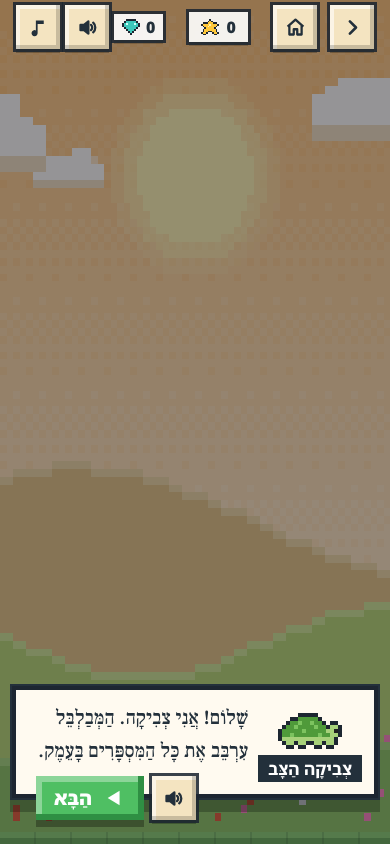
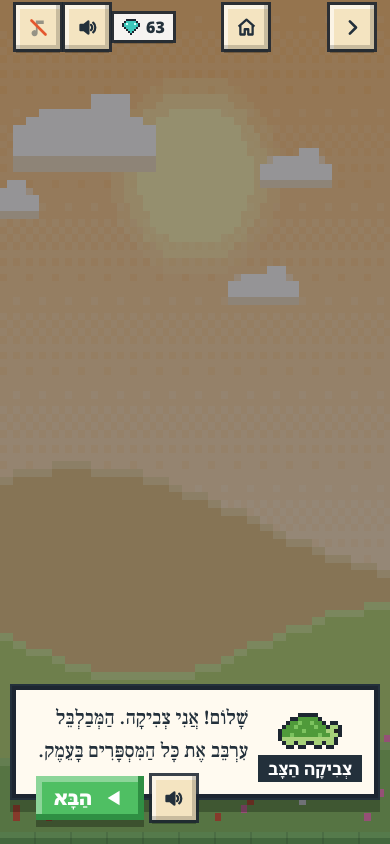
Forward button beside back on every screen with a next step (#356)
- Top bar: back, forward ‹, home, always in the same slots (forward keeps
  its slot like back does, so home never moves).
- Forward shows when the screen has its own '▶ הַמְשֵׁךְ' and a tap does
  that step (journey, world, lesson cards, story -> questions, ...).
  None on a question (answering is the step), a popup or a story dialog.
- Test (regressions): forward on journey/world/lesson card/story, a tap
  does the step, same place on all, back there too, none on a question/hub.

Fixes #356

Claude-Session: https://claude.ai/code/session_01USAbYP3vBxWgDzkJe5xdhF

diff --git a/oren2/tests/regressions.test.js b/oren2/tests/regressions.test.js
@@ -235,6 +235,49 @@ const { chromium } = require('playwright');
       await p.screenshot({ path: path.join(process.env.SHOTDIR356, '1-world-story.png') }); }
     await ctx.close();
   }
+  // #356 (reopened, 28 Nov): a forward button in the top bar, always in the same place, on every screen that has a next step
+  // (the screen's own '▶ הַמְשֵׁךְ'); a tap does that step. A question screen has no next step (answering is the step): no forward there
+  {
+    const ctx = await b.newContext({ viewport: { width: 390, height: 844 }, isMobile: true, hasTouch: true });
+    await ctx.addInitScript(() => { try { localStorage.clear(); } catch (e) {} window.__fast = true; window.__noFamily = true; window.__lessons = true; });
+    const p = await ctx.newPage(); const errs = []; p.on('pageerror', e => errs.push(e.message)); p.on('dialog', d => d.dismiss());
+    await p.goto(L.URL); await L.noCoach(p);
+    await p.evaluate(() => { const O = window.OREN; O.save.story.intro = 1; O.save.set = Object.assign(O.save.set || {}, { brk: 0 }); window.TAL.S().prof = { an: 'cat', col: '#3a8fc4', love: 'art' }; });
+    const fwdAt = () => p.evaluate(() => { const e = document.getElementById('btnFwd'); if (!e || e.hidden || getComputedStyle(e).visibility === 'hidden') return null;
+      const r = e.getBoundingClientRect(); if (!r.width) return null; const x = r.x + r.width / 2, y = r.y + r.height / 2, t = document.elementFromPoint(x, y); return t && (t === e || e.contains(t)) ? { x: Math.round(x), y: Math.round(y) } : null; });
+    const backOn = () => p.evaluate(() => ['btnBack', 'btnHome'].some(id => { const e = document.getElementById(id); return e && !e.hidden && getComputedStyle(e).visibility !== 'hidden'; }));
+    const screen = () => p.evaluate(() => { const s = [...document.querySelectorAll('.screen')].find(x => !x.hidden); return s ? s.id : ''; });
+    const seen = [], miss = [], wrong = [], pos = new Set(), noBk = [];
+    const check = async (name, before, after) => { await before(); await L.sleep(250); const at = await fwdAt(); seen.push(name);
+      if (!(await backOn())) noBk.push(name); if (!at) { miss.push(name); return; } pos.add(at.x + ',' + at.y);
+      await p.mouse.click(at.x, at.y); await L.sleep(250); if (!(await after())) wrong.push(name + '→' + (await screen())); };
+    await check('journey', () => p.evaluate(() => window.OREN.showJourney()), async () => (await screen()) === 'sWorld');
+    await check('world', () => p.evaluate(() => { const O = window.OREN; O.save.story[O.WORLDS[0].id + '-in'] = 1; O.showWorld(O.WORLDS[0]); }), async () => (await screen()) !== 'sWorld');
+    await check('lesson card', () => p.evaluate(() => { document.querySelector('#ov').hidden = true; const T = window.TAL; T.openHub(); T.ACT['eng-abc'].run(() => T.openHub()); }),
+      () => p.evaluate(() => { const q = window.__quiz; return !document.querySelector('#sTal .lccard') || (q && q.i === 1); }));
+    await p.evaluate(() => { window.__lessons = false; });
+    await check('story', () => p.evaluate(() => { document.querySelector('#ov').hidden = true; const T = window.TAL; T.openHub(); T.ACT['story-0'].run(() => T.openHub()); }),
+      () => p.evaluate(() => !document.querySelector('#sTal .stgo') && !!document.querySelector('#sTal .chs')));
+    ok('#356 forward: every screen with a next step shows ‹ in the top bar (' + seen.join(', ') + ')', miss.length === 0, miss.join(', '));
+    ok('#356 forward: a tap does the next step', wrong.length === 0, wrong.join(', '));
+    ok('#356 forward: always in the same place', pos.size === 1, [...pos].join(' | '));
+    ok('#356 back is there too on each of them', noBk.length === 0, noBk.join(', '));
+    const q = await fwdAt(); ok('#356 forward: none on a question screen (answering is the step)', !q && (await backOn()), JSON.stringify(q));
+    await p.evaluate(() => { const T = window.TAL; T.openHub(); }); await L.sleep(150);
+    ok('#356 forward: none on the hub (no single next step)', !(await fwdAt()));
+    ok('no page errors (#356 forward)', !errs.length, errs.slice(0, 3).join(' | '));
+    if (process.env.SHOTDIR356) { const fs = require('fs'), path = require('path'); fs.mkdirSync(process.env.SHOTDIR356, { recursive: true });
+      const sh = async (n, f) => { await p.evaluate(f); await L.sleep(400); await p.screenshot({ path: path.join(process.env.SHOTDIR356, n) }); };
+      await sh('4-journey-forward.png', () => window.OREN.showJourney());
+      await sh('5-world-forward.png', () => window.OREN.showWorld(window.OREN.WORLDS[0]));
+      await sh('6-story-forward.png', () => { const T = window.TAL; T.openHub(); T.ACT['story-0'].run(() => T.openHub()); });
+      await p.evaluate(() => { window.__lessons = true; delete window.TAL.S().lc; });
+      await sh('7-lesson-forward.png', () => { const T = window.TAL; T.openHub(); T.ACT['eng-abc'].run(() => T.openHub()); });
+      await p.evaluate(() => { window.__lessons = false; });
+      await sh('8-question-no-forward.png', () => { const T = window.TAL; T.openHub(); T.ACT['read-first'].run(() => T.openHub()); });
+    }
+    await ctx.close();
+  }
   await b.close();
   L.finish('regressions', res);
 })().catch(e => { console.log('FAIL crashed — ' + e.message.split('\n')[0]); console.log('RESULT regressions 0 1'); process.exitCode = 1; });

diff --git a/oren2/cf/public/index.html b/oren2/cf/public/index.html
@@ -510,7 +510,7 @@ body.act #gemc,body.act #btnHome,body.act .hud-mid .chip,body.act .tpill{display
 <div id="app" data-w="meadow">
   <canvas id="bg" aria-hidden="true"></canvas>
   <header class="hud" id="hud" hidden>
-    <div class="hud-side"><button class="ibtn" id="btnBack" aria-label="חזרה"></button><button class="ibtn" id="btnPause" aria-label="עֲצִירָה" hidden></button></div>
+    <div class="hud-side"><button class="ibtn" id="btnBack" aria-label="חזרה"></button><button class="ibtn" id="btnFwd" aria-label="הָלְאָה" style="visibility:hidden"></button><button class="ibtn" id="btnPause" aria-label="עֲצִירָה" hidden></button></div>
     <div class="hud-mid" id="hudMid"></div>
     <div class="hud-side end"><div class="gemc" id="gemc"></div><button class="ibtn" id="btnSay" aria-label="הקראה"></button><button class="ibtn" id="btnMusic" aria-label="מוזיקה"></button></div>
   </header>
@@ -627,6 +627,7 @@ const PET=()=>(PETS[save.av.pet]||PETS.cat);
 
 const ICON={
   back:'<svg viewBox="0 0 24 24" fill="none" stroke="#23303b" stroke-width="3" stroke-linecap="round" stroke-linejoin="round" aria-hidden="true"><path d="M9 5l7 7-7 7"/></svg>',
+  fwd:'<svg viewBox="0 0 24 24" fill="none" stroke="#23303b" stroke-width="3" stroke-linecap="round" stroke-linejoin="round" aria-hidden="true"><path d="M15 5l-7 7 7 7"/></svg>',
   home:'<svg viewBox="0 0 24 24" fill="none" stroke="#23303b" stroke-width="2.6" stroke-linejoin="round" aria-hidden="true"><path d="M3 11 12 3l9 8"/><path d="M5 10v10h5v-6h4v6h5V10"/></svg>',
   homeW:'<svg viewBox="0 0 24 24" fill="none" stroke="#fff" stroke-width="2.6" stroke-linejoin="round" aria-hidden="true"><path d="M3 11 12 3l9 8"/><path d="M5 10v10h5v-6h4v6h5V10"/></svg>',
   say:'<svg viewBox="0 0 24 24" fill="none" stroke="currentColor" stroke-width="2.6" stroke-linecap="round" stroke-linejoin="round" aria-hidden="true"><path d="M4 9v6h4l5 4V5L8 9H4z" fill="currentColor"/><path d="M16 9a4 4 0 0 1 0 6M18.5 6.5a7.5 7.5 0 0 1 0 11"/></svg>',
@@ -1794,6 +1795,14 @@ const syncMusic=()=>{const b=$('#btnMusic');b.innerHTML=save.snd===2?ICON.music:
 $('#btnMusic').onclick=()=>{save.snd=((save.snd|0)+2)%3;persist();syncMusic();if(save.snd===2)musicStart();else musicStop();sfx.pop(2);};
 $('#btnSay').onclick=()=>VM.say?VM.say():say(sayNow);/* #404 lit: retry the missing line */
 $('#btnBack').onclick=()=>{hush();herePut(null);backTo&&backTo();};
+/* #356: forward ‹ beside back, always in the same place (its slot stays, like back's, so home never moves). It shows when the screen has its own next step ('▶ הַמְשֵׁךְ') and a tap does that step;
+   none on a question (answering is the step), on a popup or a story dialog (they have their own button) */
+(()=>{const fb=$('#btnFwd'),GO='הַמְשֵׁךְ';fb.innerHTML=ICON.fwd;fb.title=GO;
+  const find=()=>{if($('#hud').hidden||!$('#ov').hidden||!$('#dlg').hidden)return null;const s=[...document.querySelectorAll('#screens>.screen')].find(x=>!x.hidden);if(!s)return null;
+    for(const b of s.querySelectorAll('button'))if(!b.disabled&&b.offsetParent&&b.textContent.trim()===GO)return b;return null;};
+  let q=0;const sync=()=>{q=0;fb.style.visibility=find()?'visible':'hidden';};
+  new MutationObserver(()=>{if(!q){q=1;requestAnimationFrame(sync);}}).observe(app,{subtree:true,childList:true,attributes:true,attributeFilter:['hidden','disabled']});
+  fb.onclick=()=>{const b=find();if(b){hush();b.click();}};})();
 $('#btnPause').innerHTML=ICON.pause;$('#btnPause').onclick=()=>{sfx.pop(1);pauseOn();};
 /* the phone's back gesture / the browser's back button do what ‹ does (one guard entry, re-armed each time; at home nothing happens, so the game is never left by accident) */
 (()=>{let armed=false;const arm=()=>{if(armed)return;try{history.pushState({oren:1},'');armed=true;}catch(e){}};/* browsers skip entries added without a tap, so (re)arm on taps */
@@ -5540,7 +5549,7 @@ O.on('map',m=>later(()=>{const b=m.querySelector('.jnext')||m.querySelector('.wo
 O.on('kingdomScene',sc=>later(()=>{const b=sc.querySelector('.bwgrid');if(b&&!$('#sKing').hidden&&$('#ov').hidden)intro('i-king',b,'זֹאת הַמַּמְלָכָה שֶׁלְּךָ! בַּיַּהֲלוֹמִים בּוֹנִים, וְהַכּוֹכָבִים פּוֹתְחִים קֻבִּיּוֹת חֲדָשׁוֹת.');}));
 O.on('synced',()=>{if(!$('#sHome').hidden&&$('#ov').hidden&&!document.querySelector('.tour'))home();});
 /* a home button that is always in the same place */
-(()=>{const bb=$('#btnBack');if(!bb)return;const hb=h('button','ibtn','');hb.id='btnHome';hb.innerHTML=ICON.home;hb.setAttribute('aria-label','בית');hb.title='הַבַּיִת';hb.hidden=true;hb.onclick=()=>{O.hush&&O.hush();sfx.pop(1);O.showMap();};bb.after(hb);
+(()=>{const bb=$('#btnBack');if(!bb)return;const hb=h('button','ibtn','');hb.id='btnHome';hb.innerHTML=ICON.home;hb.setAttribute('aria-label','בית');hb.title='הַבַּיִת';hb.hidden=true;hb.onclick=()=>{O.hush&&O.hush();sfx.pop(1);O.showMap();};($('#btnFwd')||bb).after(hb);/* #356: back, forward, home */
   O.on('screen',(id,back)=>{hb.hidden=id==='sStart'||id==='sHome'||back===O.showMap;});})();
 })();
 

diff --git a/oren2/index.html b/oren2/index.html
@@ -510,7 +510,7 @@ body.act #gemc,body.act #btnHome,body.act .hud-mid .chip,body.act .tpill{display
 <div id="app" data-w="meadow">
   <canvas id="bg" aria-hidden="true"></canvas>
   <header class="hud" id="hud" hidden>
-    <div class="hud-side"><button class="ibtn" id="btnBack" aria-label="חזרה"></button><button class="ibtn" id="btnPause" aria-label="עֲצִירָה" hidden></button></div>
+    <div class="hud-side"><button class="ibtn" id="btnBack" aria-label="חזרה"></button><button class="ibtn" id="btnFwd" aria-label="הָלְאָה" style="visibility:hidden"></button><button class="ibtn" id="btnPause" aria-label="עֲצִירָה" hidden></button></div>
     <div class="hud-mid" id="hudMid"></div>
     <div class="hud-side end"><div class="gemc" id="gemc"></div><button class="ibtn" id="btnSay" aria-label="הקראה"></button><button class="ibtn" id="btnMusic" aria-label="מוזיקה"></button></div>
   </header>
@@ -627,6 +627,7 @@ const PET=()=>(PETS[save.av.pet]||PETS.cat);
 
 const ICON={
   back:'<svg viewBox="0 0 24 24" fill="none" stroke="#23303b" stroke-width="3" stroke-linecap="round" stroke-linejoin="round" aria-hidden="true"><path d="M9 5l7 7-7 7"/></svg>',
+  fwd:'<svg viewBox="0 0 24 24" fill="none" stroke="#23303b" stroke-width="3" stroke-linecap="round" stroke-linejoin="round" aria-hidden="true"><path d="M15 5l-7 7 7 7"/></svg>',
   home:'<svg viewBox="0 0 24 24" fill="none" stroke="#23303b" stroke-width="2.6" stroke-linejoin="round" aria-hidden="true"><path d="M3 11 12 3l9 8"/><path d="M5 10v10h5v-6h4v6h5V10"/></svg>',
   homeW:'<svg viewBox="0 0 24 24" fill="none" stroke="#fff" stroke-width="2.6" stroke-linejoin="round" aria-hidden="true"><path d="M3 11 12 3l9 8"/><path d="M5 10v10h5v-6h4v6h5V10"/></svg>',
   say:'<svg viewBox="0 0 24 24" fill="none" stroke="currentColor" stroke-width="2.6" stroke-linecap="round" stroke-linejoin="round" aria-hidden="true"><path d="M4 9v6h4l5 4V5L8 9H4z" fill="currentColor"/><path d="M16 9a4 4 0 0 1 0 6M18.5 6.5a7.5 7.5 0 0 1 0 11"/></svg>',
@@ -1794,6 +1795,14 @@ const syncMusic=()=>{const b=$('#btnMusic');b.innerHTML=save.snd===2?ICON.music:
 $('#btnMusic').onclick=()=>{save.snd=((save.snd|0)+2)%3;persist();syncMusic();if(save.snd===2)musicStart();else musicStop();sfx.pop(2);};
 $('#btnSay').onclick=()=>VM.say?VM.say():say(sayNow);/* #404 lit: retry the missing line */
 $('#btnBack').onclick=()=>{hush();herePut(null);backTo&&backTo();};
+/* #356: forward ‹ beside back, always in the same place (its slot stays, like back's, so home never moves). It shows when the screen has its own next step ('▶ הַמְשֵׁךְ') and a tap does that step;
+   none on a question (answering is the step), on a popup or a story dialog (they have their own button) */
+(()=>{const fb=$('#btnFwd'),GO='הַמְשֵׁךְ';fb.innerHTML=ICON.fwd;fb.title=GO;
+  const find=()=>{if($('#hud').hidden||!$('#ov').hidden||!$('#dlg').hidden)return null;const s=[...document.querySelectorAll('#screens>.screen')].find(x=>!x.hidden);if(!s)return null;
+    for(const b of s.querySelectorAll('button'))if(!b.disabled&&b.offsetParent&&b.textContent.trim()===GO)return b;return null;};
+  let q=0;const sync=()=>{q=0;fb.style.visibility=find()?'visible':'hidden';};
+  new MutationObserver(()=>{if(!q){q=1;requestAnimationFrame(sync);}}).observe(app,{subtree:true,childList:true,attributes:true,attributeFilter:['hidden','disabled']});
+  fb.onclick=()=>{const b=find();if(b){hush();b.click();}};})();
 $('#btnPause').innerHTML=ICON.pause;$('#btnPause').onclick=()=>{sfx.pop(1);pauseOn();};
 /* the phone's back gesture / the browser's back button do what ‹ does (one guard entry, re-armed each time; at home nothing happens, so the game is never left by accident) */
 (()=>{let armed=false;const arm=()=>{if(armed)return;try{history.pushState({oren:1},'');armed=true;}catch(e){}};/* browsers skip entries added without a tap, so (re)arm on taps */
@@ -5540,7 +5549,7 @@ O.on('map',m=>later(()=>{const b=m.querySelector('.jnext')||m.querySelector('.wo
 O.on('kingdomScene',sc=>later(()=>{const b=sc.querySelector('.bwgrid');if(b&&!$('#sKing').hidden&&$('#ov').hidden)intro('i-king',b,'זֹאת הַמַּמְלָכָה שֶׁלְּךָ! בַּיַּהֲלוֹמִים בּוֹנִים, וְהַכּוֹכָבִים פּוֹתְחִים קֻבִּיּוֹת חֲדָשׁוֹת.');}));
 O.on('synced',()=>{if(!$('#sHome').hidden&&$('#ov').hidden&&!document.querySelector('.tour'))home();});
 /* a home button that is always in the same place */
-(()=>{const bb=$('#btnBack');if(!bb)return;const hb=h('button','ibtn','');hb.id='btnHome';hb.innerHTML=ICON.home;hb.setAttribute('aria-label','בית');hb.title='הַבַּיִת';hb.hidden=true;hb.onclick=()=>{O.hush&&O.hush();sfx.pop(1);O.showMap();};bb.after(hb);
+(()=>{const bb=$('#btnBack');if(!bb)return;const hb=h('button','ibtn','');hb.id='btnHome';hb.innerHTML=ICON.home;hb.setAttribute('aria-label','בית');hb.title='הַבַּיִת';hb.hidden=true;hb.onclick=()=>{O.hush&&O.hush();sfx.pop(1);O.showMap();};($('#btnFwd')||bb).after(hb);/* #356: back, forward, home */
   O.on('screen',(id,back)=>{hb.hidden=id==='sStart'||id==='sHome'||back===O.showMap;});})();
 })();
 

diff --git a/oren2/talents.js b/oren2/talents.js
@@ -1545,6 +1545,6 @@ O.on('map',m=>later(()=>{const b=m.querySelector('.jnext')||m.querySelector('.wo
 O.on('kingdomScene',sc=>later(()=>{const b=sc.querySelector('.bwgrid');if(b&&!$('#sKing').hidden&&$('#ov').hidden)intro('i-king',b,'זֹאת הַמַּמְלָכָה שֶׁלְּךָ! בַּיַּהֲלוֹמִים בּוֹנִים, וְהַכּוֹכָבִים פּוֹתְחִים קֻבִּיּוֹת חֲדָשׁוֹת.');}));
 O.on('synced',()=>{if(!$('#sHome').hidden&&$('#ov').hidden&&!document.querySelector('.tour'))home();});
 /* a home button that is always in the same place */
-(()=>{const bb=$('#btnBack');if(!bb)return;const hb=h('button','ibtn','');hb.id='btnHome';hb.innerHTML=ICON.home;hb.setAttribute('aria-label','בית');hb.title='הַבַּיִת';hb.hidden=true;hb.onclick=()=>{O.hush&&O.hush();sfx.pop(1);O.showMap();};bb.after(hb);
+(()=>{const bb=$('#btnBack');if(!bb)return;const hb=h('button','ibtn','');hb.id='btnHome';hb.innerHTML=ICON.home;hb.setAttribute('aria-label','בית');hb.title='הַבַּיִת';hb.hidden=true;hb.onclick=()=>{O.hush&&O.hush();sfx.pop(1);O.showMap();};($('#btnFwd')||bb).after(hb);/* #356: back, forward, home */
   O.on('screen',(id,back)=>{hb.hidden=id==='sStart'||id==='sHome'||back===O.showMap;});})();
 })();
